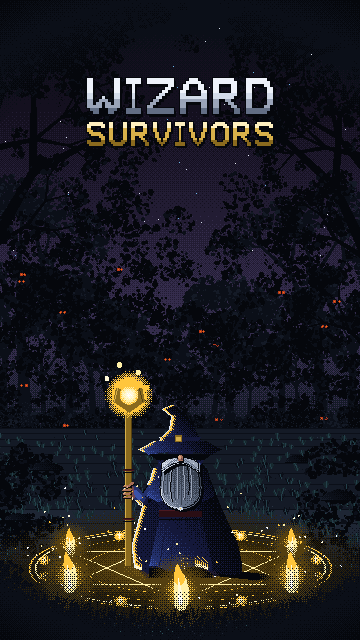
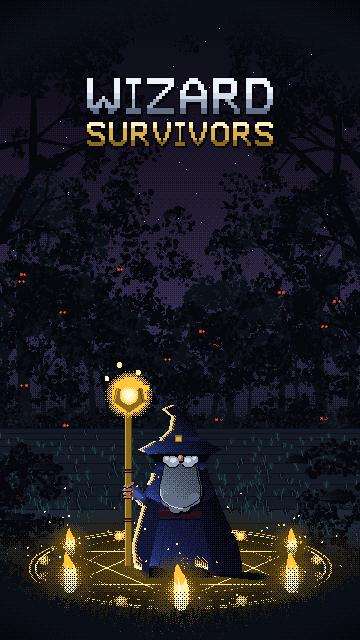
art: strip the streaks, round the moustache, deepen the hood
Nothing is drawn down the front of the beard any more. Partings were tried
at four, eleven and thirteen across, in occlusion and in deep, ragged and
even; at every count and every weight they read as ruling on a surface
rather than as hair, and the reference has none. The mass is one dithered
ramp and the shape does the rest - four lobes bulging past the profile
near the bottom, plus a shallow cosine on the width, and that is the whole
of the bushiness. The lobes take neither a keyline nor a lit cap: ringed
they were four drawn circles, capped they were four bubbles.

Moustache is two round lobes rather than one swept wedge, each a pair of
overlapping discs with the tip curling up. A capsule two units long with a
one-unit radius is a rounded rectangle at this size, and it came out as
two white slabs across the face.

The hood shadow reaches to -21 units, well past the nose. Its skip rect
moved with it - deepen one and leave the other and the new shadow starts
taking an edge light again.

Changed region(s): [[0.4278, 0.6875, 0.5806, 0.8125]]

diff --git a/tools/art/hero.py b/tools/art/hero.py
@@ -229,23 +229,29 @@ def _hood(c, cx, yb, u, r):
     units through robe deep and shade is what turns the edge into a transition.
     """
     c.poly_shade([(cx - 6.6 * u, yb - 24.5 * u), (cx + 6.6 * u, yb - 24.5 * u),
-                  (cx + 5.0 * u, yb - 23.2 * u), (cx + 4.0 * u, yb - 22.0 * u),
-                  (cx - 4.0 * u, yb - 22.0 * u), (cx - 5.0 * u, yb - 23.2 * u)],
+                  (cx + 5.4 * u, yb - 23.0 * u), (cx + 4.8 * u, yb - 21.0 * u),
+                  (cx - 4.8 * u, yb - 21.0 * u), (cx - 5.4 * u, yb - 23.0 * u)],
                  [OCC, OCC, OCC, r[4], r[3]], ang=1.5708, gamma=0.8)
 
 
-# The beard from the reference: long, round and striped, not lobed. t runs 0 at the jaw to 1
-# at the tip; the table is half-width at t. It is widest just under the moustache, holds that
-# width for a third of its length, and closes in a rounded tip. Note how far down it goes -
-# eleven units, past the mantle hem and most of the way to the sash. Every earlier version was
-# about half this length, and length is most of what makes it read as a wizard's beard rather
-# than as a full beard.
+# The beard from the reference: long, thick, round and SMOOTH. t runs 0 at the jaw to 1 at the
+# tip; the table is half-width at t. Narrow where the moustache covers it, widening to its full
+# 4.3 units around three fifths down, closing in a rounded tip rather than a fork. Note how far
+# down it goes - eleven units, past the mantle hem and most of the way to the sash. The earliest
+# versions were about half that, and length is most of what makes it read as a wizard's beard
+# rather than as a full beard. Width has a ceiling and the ceiling is the length: taken out to
+# five units it came out as wide as it is tall and stopped being a beard at all.
 _BEARD_TOP = -23.60
 _BEARD_BOT = -12.60
 _BEARD_PROFILE = [(0.00, 2.45), (0.10, 3.10), (0.25, 3.75), (0.42, 4.15),
                   (0.58, 4.30), (0.72, 4.15), (0.83, 3.70), (0.92, 2.85),
                   (0.97, 1.75), (1.00, 0.40)]
-_STRANDS = 11
+
+# Lobes hung off the lower contour, (x, y, r) in units. They bulge a little past the profile so
+# the bottom of the beard is bushy rather than one smooth arc, which is the only place the
+# bushiness is allowed to live now that nothing is drawn on the front of it.
+_BEARD_LOBES = [(-2.75, -14.55, 1.35), (-1.05, -13.20, 1.40),
+                (0.85, -13.45, 1.35), (2.95, -14.85, 1.25)]
 
 
 def _bw(t):
@@ -253,7 +259,9 @@ def _bw(t):
     for i in range(len(_BEARD_PROFILE) - 1):
         (t0, w0), (t1, w1) = _BEARD_PROFILE[i], _BEARD_PROFILE[i + 1]
         if t <= t1:
-            return w0 + (w1 - w0) * (t - t0) / (t1 - t0)
+            w = w0 + (w1 - w0) * (t - t0) / (t1 - t0)
+            # a shallow undulation on the way down, so the silhouette is never a clean curve
+            return w * (1.0 + 0.055 * math.cos(t * 9.0))
     return _BEARD_PROFILE[-1][1]
 
 
@@ -298,29 +306,19 @@ def _face(c, cx, yb, u, under=None):
 
     out = _beard_pts(cx, yb, u)
     c.poly([(x + 0.50 * u, y + 0.50 * u) for (x, y) in out], OCC)
+    for (lx, ly, lr) in _BEARD_LOBES:
+        c.disc(cx + lx * u + 0.5 * u, yb + ly * u + 0.5 * u, lr * u, lr * u, OCC)
+    # Nothing is drawn down the front of it. Partings were tried at four, eleven and thirteen
+    # across, in occlusion and in deep, ragged and even; at every count and every weight they
+    # read as ruling on a surface rather than as hair, and the reference has none. The mass is
+    # one dithered ramp, the shape does the rest.
     c.poly_shade(out, [sk[2], sk[3], sk[4]], ang=-0.7854, bias=0.0, gamma=0.48)
-    # Strands: many fine partings, each with a lit strand beside it, following the taper down.
-    # Four thick lines read as a grille and five fat capsules read as dreadlocks; thirteen
-    # hairlines across thirty pixels read as hair, which is the whole difference.
-    for i in range(1, _STRANDS):
-        f = -1.0 + 2.0 * i / float(_STRANDS)
-        # ragged, not a comb: every parting ends at its own height, and only every third of
-        # them carries a lit strand. Evenly spaced pairs of dark and light lines across the
-        # whole mass gave it the front of a radiator.
-        tend = 0.74 + 0.20 * (1.0 - abs(f)) - 0.06 * (i % 3)
-        prev = None
-        for k in range(13):
-            t = 0.05 + (tend - 0.05) * k / 12.0
-            p = (cx + f * _bw(t) * u, _by(yb, u, t))
-            if prev:
-                # Partings in `deep`, not in occlusion. Eleven hard black lines at full
-                # contrast across a pale mass is the front of a radiator whatever spacing they
-                # are on; two of them carry that weight and the rest are one step of value.
-                c.line(prev[0], prev[1], p[0], p[1], OCC if i in (3, 8) else sk[4])
-                if i % 2:
-                    c.line(prev[0] - 1, prev[1], p[0] - 1, p[1], sk[2])
-            prev = p
+    for (lx, ly, lr) in _BEARD_LOBES:
+        c.disc(cx + lx * u, yb + ly * u, lr * u, lr * u, sk[3])
+    # and no lit cap on them either - a bright spot in the middle of each reads as a bubble
     _outline(c, out, OCC)
+    # No keyline on the lobes. Ringing each one turned the bottom of the beard into four
+    # drawn circles; they are there to make the contour lumpy, not to be seen as shapes.
     # the ward along the lower contour, one pixel in from the keyline
     for i in range(len(out) - 1):
         ax, ay = out[i]
@@ -328,21 +326,23 @@ def _face(c, cx, yb, u, under=None):
         if ay > _by(yb, u, 0.58) and ax < cx:
             c.line(ax + 1, ay, bx + 1, by_, sk[1])
     if under:
-        c.disc(cx, _by(yb, u, 0.99), 0.5 * u, 0.34 * u, sk[1])
         c.set(int(cx), int(_by(yb, u, 1.0)), under[3])
-    # A busy moustache over the top of it: thin under the nose, heavy and drooping at the ends,
-    # and lighter than the beard so it reads as the nearer thing. It carries its own partings.
-    m = P([(-4.05, -22.25), (-2.85, -23.15), (-1.20, -23.50), (0.00, -23.45),
-           (1.20, -23.50), (2.85, -23.15), (4.05, -22.25),
-           (3.85, -20.60), (2.85, -21.40), (1.45, -22.20), (0.00, -22.55),
-           (-1.45, -22.20), (-2.85, -21.40), (-3.85, -20.60)])
-    c.poly([(x + 0.55 * u, y + 0.55 * u) for (x, y) in m], OCC)
-    c.poly_shade(m, [sk[1], sk[2]], ang=-0.7854, bias=0.0, gamma=0.85)
-    _outline(c, m, OCC)
-    for (a, b) in [(-0.55, -3.45), (-1.25, -3.95), (0.55, 3.45), (1.25, 3.95)]:
-        c.line(cx + a * u, yb - 23.15 * u, cx + b * u, yb - 20.95 * u, sk[3])
-    # Small and symmetrical: a straight taper to an apex on the centre line. Off-centre and a
-    # unit longer, the same shape reads as a beak, which is a different character entirely.
+    # A round moustache, two fat lobes with the tips curling up and out. The version before was
+    # a single swept wedge across both sides, which reads as one object laid over the face; the
+    # reference has two, and the gap between them is where the nose sits.
+    for sgn in (-1, 1):
+        for (dy, k, col) in [(0.20 * u, 0.07, OCC), (0.0, 0.0, sk[2])]:
+            # Discs, not a long capsule. A capsule two units long with a one-unit radius is a
+            # rounded rectangle at this size, and both lobes came out as white slabs across
+            # the face. Two overlapping discs per side is the whole lobe.
+            c.disc(cx + sgn * 1.70 * u, yb - 22.80 * u + dy,
+                   (1.42 + k) * u, (1.18 + k) * u, col)
+            c.disc(cx + sgn * 2.95 * u, yb - 23.25 * u + dy,
+                   (0.86 + k) * u, (0.80 + k) * u, col)
+        c.disc(cx + sgn * 1.55 * u, yb - 23.10 * u, 0.72 * u, 0.52 * u, sk[1])
+        c.disc(cx + sgn * 2.90 * u, yb - 23.50 * u, 0.40 * u, 0.34 * u, sk[1])
+    # Small and round, and in front of the moustache: the gap between its two lobes is a hole
+    # in the middle of the face unless something fills it.
     c.disc(cx + 1, yb - 23.50 * u + 1, 0.64 * u, 0.74 * u, OCC)
     c.disc(cx, yb - 23.55 * u, 0.62 * u, 0.72 * u, s[2])
     c.disc(cx - 0.16 * u, yb - 23.72 * u, 0.34 * u, 0.40 * u, s[1])
@@ -451,7 +451,7 @@ def wizard_hero(c, cx, yb, h=150, robe="wool", staff_ramp=None, cast=(1.5, 0.5),
     # ...but NOT on the hood shadow. In those rows the void is the outermost lit thing, so
     # both passes would put a bone rim and a gold bounce on the one part of the figure whose
     # whole job is to be unlit. See _hood.
-    hood = (int(cx - 7.4 * u), int(yb - 25.4 * u), int(cx + 7.4 * u), int(yb - 21.4 * u))
+    hood = (int(cx - 7.4 * u), int(yb - 25.4 * u), int(cx + 7.4 * u), int(yb - 20.4 * u))
     _bounce(c, 1, int(cx + 14 * u), int(yb - 36 * u), int(yb), ramp, skip=hood)
     if under_ramp:
         _underlight(c, int(cx - 15 * u), int(cx + 15 * u), int(yb - 22 * u), int(yb + 1),

diff --git a/.ai/title-screen.md b/.ai/title-screen.md
@@ -136,8 +136,10 @@ carry the read, and all four were arrived at by getting them wrong first:
 **The face is a shadow, a nose and a beard — and nothing else.** `_hood()` puts a band of `occ`
 under the brim and that band stays unlit: it is handed to `_rim` and `_bounce` as a skip rect, so
 neither pass can put a bone edge or a gold bounce on the one part of the figure whose whole job
-is to be dark. Its bottom two units dither through robe `deep` and `shade` onto the mantle rather
-than stopping on a rule. Out of the bottom of it comes a nose in `flesh` and a grey beard in
+is to be dark. It reaches from the brim underside down to −21 units, well past the nose, and its
+bottom two units dither through robe `deep` and `shade` onto the mantle rather than stopping on a
+rule. **The skip rect and the shadow have to move together** — deepen one and leave the other and
+the extra shadow starts taking an edge light again. Out of the bottom of it comes a nose in `flesh` and a grey beard in
 `skin`, and that is the entire face. There are no eyes and no mouth; at this size they are three
 dark specks in a void, which is what made an earlier front-facing head read as a mask.
 
@@ -164,15 +166,21 @@ palette — and it is **long, thick and round**:
 - **Width has a ceiling, and it is the length.** Taken out to five units the profile made the
   beard as wide as it is tall, and it stopped being a beard and became a ball; the shape needs
   to stay clearly taller than it is wide however thick it gets.
-- **Eleven partings in `deep`, not in occlusion**, each following the taper down, with a lit
-  strand beside every other one and the middle ones hanging longest. Hard black lines at full
-  contrast across a pale mass are the front of a radiator whatever spacing they are on — two
-  carry that weight and the rest are one step of value. Four thick lines read as a grille and
-  five fat capsules read as dreadlocks.
-- **The moustache is lighter than the beard and narrower than its widest point**, thin under the
-  nose and heavy and drooping at the ends, over a deep occlusion drop. It went dark once — a
-  dark moustache reads as relief in the beard, which is right only when the beard is the
-  subject; as a thing in its own right it has to sit in front and above.
+- **Nothing is drawn down the front of it.** Partings were tried at four, eleven and thirteen
+  across, in occlusion and in `deep`, ragged and even; at every count and every weight they read
+  as ruling on a surface rather than as hair. The mass is one dithered ramp and the shape does
+  the rest. Five fat capsules instead read as dreadlocks, and a field of ringed discs as
+  bubbles — the bushiness lives in the contour, and only in the contour.
+- **`_BEARD_LOBES` are contour, not features.** Four discs bulge a little past the profile near
+  the bottom so it is not one smooth arc. They take neither a keyline nor a lit cap: ringed,
+  they became four drawn circles; capped, four bubbles. A shallow cosine on `_bw()` undulates
+  the rest of the silhouette for the same reason.
+- **The moustache is two round lobes, not one swept wedge**, each an overlapping pair of discs
+  with the tip curling up and out, lighter than the beard, over a shallow occlusion drop. A
+  capsule two units long with a one-unit radius is a rounded rectangle at this size and both
+  sides came out as white slabs; a deeper drop turns the seam into a shelf the moustache sits
+  on. The gap between the two lobes is where the nose goes, and something has to fill it or
+  the middle of the face is a hole.
 
 There is also **no clasp at the throat** any more. A gold disc sat there, and under the hood
 shadow with nothing else below it, a warm rounded shape at chin height reads as a chin.
